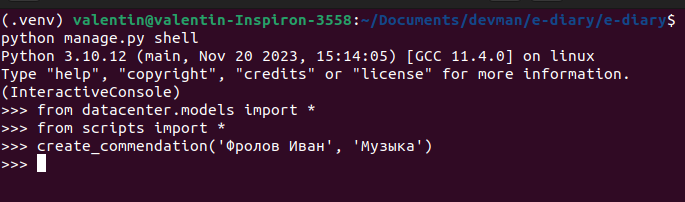
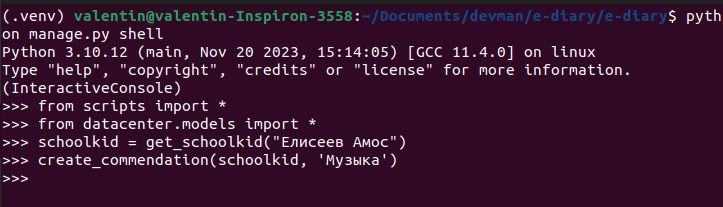
Change screenshots, update README

Changed region(s): [[0.0, 0.0297, 1.0, 0.8911]]

diff --git a/README.md b/README.md
@@ -31,9 +31,9 @@ $ python manage.py shell
 
 Для пользования этой функцией на нужно создать экземпляр модели ученика, оценки которого мы хотим исправить.
 
-* Создадим его, заключив в переменную "schoolkid":
+* Создадим его, заключив в переменную "schoolkid" вызвав функцию get_schoolkid():
 ```console
-  schoolkid = Schoolkid.objects.get(full_name__contains="<имя ученика>")
+  schoolkid = get_schoolkid(full_name__contains="<имя ученика>")
 ```
 * Вызовем функцию, используя аргумент "schoolkid": `fix_marks(schoolkid)`
 * Радуемся исправленным оценкам
@@ -46,9 +46,9 @@ $ python manage.py shell
 
 Для пользования этой функцией на нужно создать экземпляр модели ученика, оценки которого мы хотим исправить.
 
-* Создадим его, заключив в переменную "schoolkid":
+* Создадим его, заключив в переменную "schoolkid" вызвав функцию get_schoolkid():
 ```console
-  schoolkid = Schoolkid.objects.get(full_name__contains="<имя ученика>")
+  schoolkid = get_schoolkid(full_name__contains="<имя ученика>")
 ```
 * Вызовем функцию, используя аргумент "schoolkid": `remove_chastisements(schoolkid)`
 * Радуемся удаленным замечаниям
@@ -59,7 +59,7 @@ $ python manage.py shell
 
 ### Создание хвалебных отзывов от учителей (функция create_commendation)
 
-Функция принимает два аргумента: schoolkid - <имя ученика>, subject - <предмет>
+Функция принимает два аргумента: schoolkid - <объект с учеником get_schoolkid()>, subject - <предмет>
 
 * Вызываем фунцкию прописывая аргументы: `create_commendation(schoolkid, subject)`
 * Радуемся появившимся хвалебным отзывам
